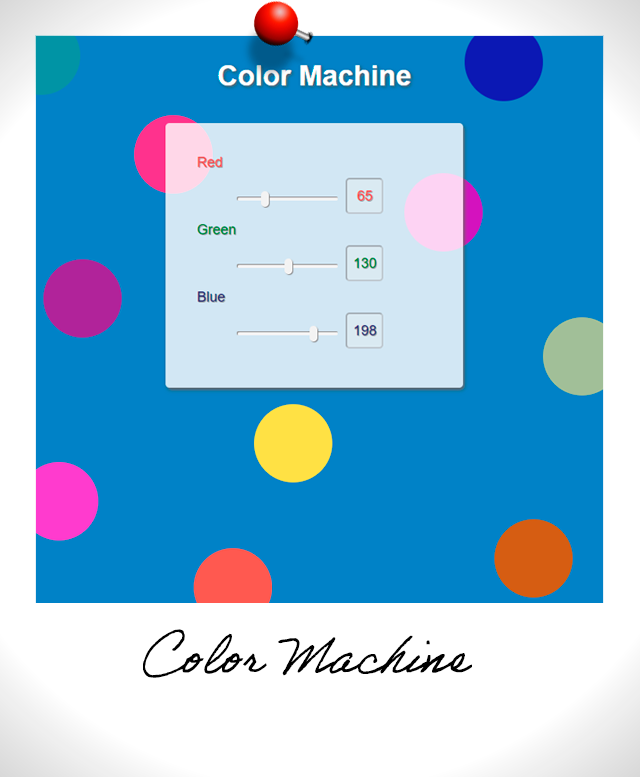
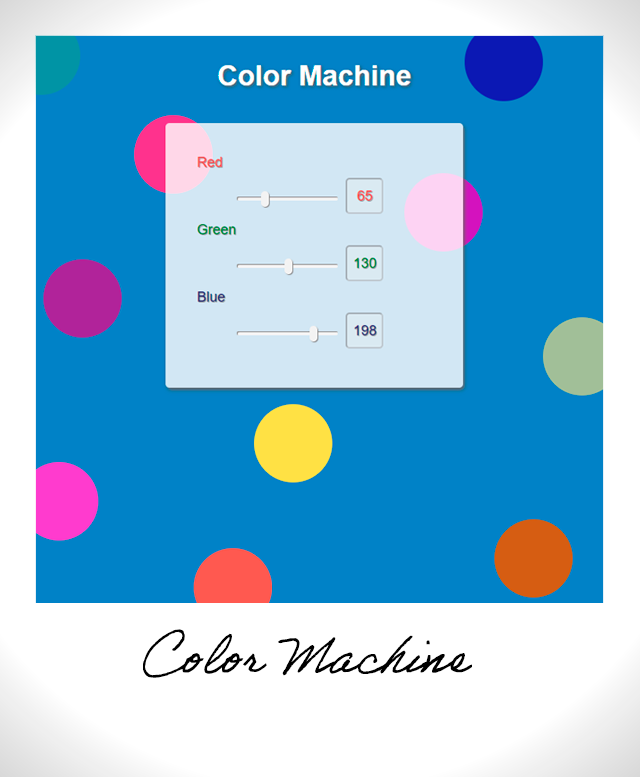
portfolio style fixes, change of pined for non-pinned polaroid and addition of the take out the pin effect and adjustaments

Changed region(s): [[0.375, 0.0, 0.5, 0.0927]]

diff --git a/src/components/pin/Pin.jsx b/src/components/pin/Pin.jsx
@@ -2,22 +2,23 @@
 import react from 'react';
 import styles from './styles.module.css';
 
-function Pin({ color, notPinned }) {
+function Pin({ color, notPinned, width, height, notPinnedHeight, notPinnedWidth }) {
   return (
     <>
       {notPinned ? (
         <svg
-          className={styles.pinSvg}
+          className={styles.notPinnedSvg}
           xmlns="http://www.w3.org/2000/svg"
           xmlnsXlink="http://www.w3.org/1999/xlink"
-          width="0.3rem"
-          height="0.7rem"
+          width={notPinnedWidth}
+          height={notPinnedHeight}
         >
           <image
+            className={styles.notPinnedImage}
             x="0px"
             y="0px"
-            width="0.3rem"
-            height="0.7rem"
+            width={notPinnedWidth}
+            height={notPinnedHeight}
[1 lines of base64/hex data omitted]
           />
         </svg>
@@ -26,14 +27,15 @@ function Pin({ color, notPinned }) {
           className={styles.pinSvg}
           xmlns="http://www.w3.org/2000/svg"
           xmlnsXlink="http://www.w3.org/1999/xlink"
-          width="1rem"
-          height="1.44rem"
+          width={width}
+          height={height}
         >
           <image
+            className={styles.pinImage}
             x="0px"
             y="0px"
-            width="1rem"
-            height="1.44rem"
+            width={width}
+            height={height}
[1 lines of base64/hex data omitted]
           />
         </svg>
@@ -42,14 +44,15 @@ function Pin({ color, notPinned }) {
           className={styles.pinSvg}
           xmlns="http://www.w3.org/2000/svg"
           xmlnsXlink="http://www.w3.org/1999/xlink"
-          width="1rem"
-          height="1.44rem"
+          width={width}
+          height={height}
         >
           <image
+            className={styles.pinImage}
             x="0px"
             y="0px"
-            width="1rem"
-            height="1.44rem"
+            width={width}
+            height={height}
[1 lines of base64/hex data omitted]
           />
         </svg>
@@ -58,14 +61,15 @@ function Pin({ color, notPinned }) {
           className={styles.pinSvg}
           xmlns="http://www.w3.org/2000/svg"
           xmlnsXlink="http://www.w3.org/1999/xlink"
-          width="1rem"
-          height="1.44rem"
+          width={width}
+          height={height}
         >
           <image
+            className={styles.pinImage}
             x="0px"
             y="0px"
-            width="1rem"
-            height="1.44rem"
+            width={width}
+            height={height}
[1 lines of base64/hex data omitted]
           />
         </svg>
@@ -74,14 +78,15 @@ function Pin({ color, notPinned }) {
           className={styles.pinSvg}
           xmlns="http://www.w3.org/2000/svg"
           xmlnsXlink="http://www.w3.org/1999/xlink"
-          width="1rem"
-          height="1.44rem"
+          width={width}
+          height={height}
         >
           <image
+            className={styles.pinImage}
             x="0px"
             y="0px"
-            width="1rem"
-            height="1.44rem"
+            width={width}
+            height={height}
[1 lines of base64/hex data omitted]
           />
         </svg>
@@ -90,14 +95,15 @@ function Pin({ color, notPinned }) {
           className={styles.pinSvg}
           xmlns="http://www.w3.org/2000/svg"
           xmlnsXlink="http://www.w3.org/1999/xlink"
-          width="1rem"
-          height="1.44rem"
+          width={width}
+          height={height}
         >
           <image
+            className={styles.pinImage}
             x="0px"
             y="0px"
-            width="1rem"
-            height="1.44rem"
+            width={width}
+            height={height}
[1 lines of base64/hex data omitted]
           />
         </svg>
@@ -106,14 +112,15 @@ function Pin({ color, notPinned }) {
           className={styles.pinSvg}
           xmlns="http://www.w3.org/2000/svg"
           xmlnsXlink="http://www.w3.org/1999/xlink"
-            width="1rem"
-            height="1.44rem"
+          width={width}
+          height={height}
         >
           <image
+            className={styles.pinImage}
             x="0px"
             y="0px"
-            width="1rem"
-            height="1.44rem"
+            width={width}
+            height={height}
[1 lines of base64/hex data omitted]
           />
         </svg>

diff --git a/src/components/portfolio-main/polaroid/styles.module.css b/src/components/portfolio-main/polaroid/styles.module.css
@@ -8,38 +8,28 @@
 }
 .polaroidLink {
   width: 100%;
+  position: relative;
+  display: flex;
+  flex-flow: column;
+  justify-content: flex-start;
+  align-items: center;
+  cursor: url(../../../img/red-pin.png), pointer;
+
+}
+.pinDiv {
+  position: absolute;
+  margin: -0.1rem 0.4rem 0.14rem 0.71rem;
+  z-index: 1;
 }
 .polaroid {
   width: 100%;
   height: auto;
+  z-index: -1;
 }
 .polaroidDiv:hover {
   transform: scale(1.1);
-  z-index: 2;
+  z-index: 1;
 }
-  /* animation: shake 0.5s;
-  animation-iteration-count: infinite;
-}
-@keyframes shake {
-  0% {
-    transform: translate(2px, 2px) rotate(0deg);
-  }
-  20% {
-    transform: translate(-1px, -1px) rotate(-2deg);
-  }
-  40% {
-    transform: translate(2px, 2px) rotate(5deg);
-  }
-  60% {
-    transform: translate(2px, 2px) rotate(5deg);
-  }
-  80% {
-    transform: translate(2px, 2px) rotate(5deg);
-  }
-  100% {
-    transform: translate(2px, 2px) rotate(0deg);
-  }
-} */
 .polaroidShadow {
   position: absolute;
   left: 0;
@@ -48,7 +38,7 @@
   height: 103%;
   opacity: 0.8;
   background: linear-gradient(to top, black 30%, transparent);
-  z-index: -1;
+  z-index: -2;
   filter: blur(2px);
 }
 @media (min-width: 650px) {
@@ -62,13 +52,15 @@
     width: 13%;
     max-width: 200px;
     width: calc(12% + 1vmin);
-    max-width: (180px + 1vmin);
     height: auto;
     margin: 0.5rem;
     transform: rotate(1deg);
     position: relative;
   }
   .polaroidDiv:hover {
-    transform: scale(1.6);
+    transform: scale(1.2);
+  }
+  .pinDiv {
+    margin: -0.15rem 0.4rem 0rem auto;
   }
 }

diff --git a/src/components/portfolio-main/polaroid/Polaroid.jsx b/src/components/portfolio-main/polaroid/Polaroid.jsx
@@ -1,15 +1,24 @@
 // eslint-disable-next-line no-unused-vars
-import react from 'react';
-import { Link } from 'react-router-dom';
+import react, { useState } from 'react';
+import Pin from '../../pin/Pin';
 import styles from './styles.module.css';
 
+
 function Polaroid({ margin, rotate, width, src, alt, linkTo }) {
+
+  const [hover, setHover] = useState(false);
+
   return (
     <div
       className={styles.polaroidDiv}
       style={{ margin: margin, transform: `rotate(${rotate})`, width: width }}
+      onMouseEnter={() => setHover(true)}
+      onMouseLeave={() => setHover(false)}
       >
     <a className={styles.polaroidLink} href={linkTo}>
+      <div className={styles.pinDiv}>
+      <Pin notPinned={hover? true : false}/>
+      </div>
       <figure className={styles.polaroidFig}>
         <img className={styles.polaroid} src={src} alt={alt} />
         <div className={styles.polaroidShadow}></div>

diff --git a/src/components/pin/styles.module.css b/src/components/pin/styles.module.css
@@ -1,4 +1,25 @@
 /* Sticker component styles */
-.pinSvg {
-  margin: 0px ;
+.pinSvg, .pinImage {
+  margin: 0px;
+  width: 1rem;
+  height: 1.44rem;
+  z-index: 2;
+}
+.notPinnedSvg, .notPinnedImage {
+  /* margin: 0 0 0.14rem 0.71rem; */
+  width: 0.3rem;
+  height: 0.7rem;
+  z-index: 2;
+}
+@media (min-width: 1200px) {
+  .pinSvg, .pinImage {
+    margin: 0px;
+    width: 0.7rem;
+    height: 1.2rem;
+  }
+  .notPinnedSvg, .notPinnedImage {
+    margin: 0 0 0.14rem 0.3rem;
+    width: 0.2rem;
+    height: 0.6rem;
+  }
 }

diff --git a/src/components/portfolio-main/polaroids-panel/styles.module.css b/src/components/portfolio-main/polaroids-panel/styles.module.css
@@ -12,7 +12,7 @@
   max-width: 90vw;
   display: flex;
   flex-flow: row wrap;
-  margin: 0.2rem;
+  margin: 1rem 0.5rem 0.5rem 0.5rem;
   justify-content: center;
   align-items: center;
 }
